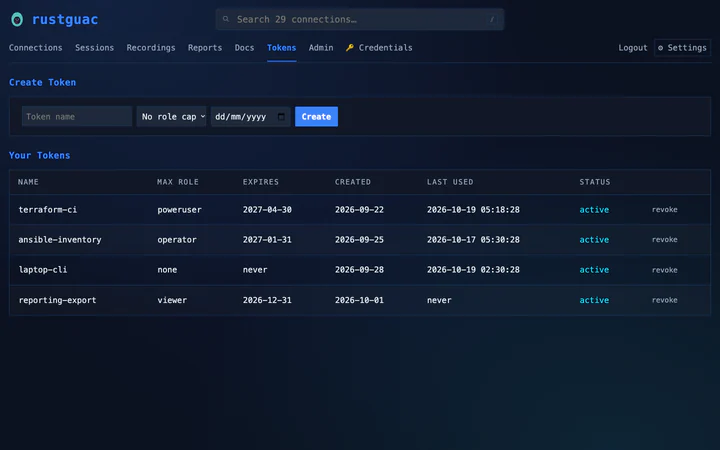
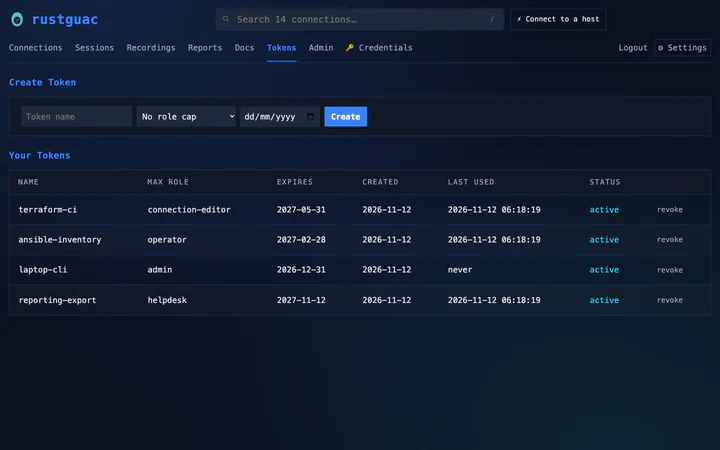
media: rustguac 1.14.1 screenshots for roles and access
New captures from sol1/rustguac:1.14.1, in both themes: admin (now
v1.14.1, with custom roles in the role picker and an access action per
user), tokens (caps at custom roles), and two new shots, roles (the
Admin Roles section with three custom roles) and user-access (one
user's effective access from two group mappings).

The roles shot replaces tokens as the Identity image on /features/ and
on the roles docs social card, and the home tour gains Roles and Access
tabs. SHOTS.md records which shots come from which release.

diff --git a/media/screenshots/SHOTS.md b/media/screenshots/SHOTS.md
@@ -1,6 +1,6 @@
 # Screenshots
 
-Fresh captures of rustguac v1.12.1 (the official `sol1/rustguac:1.12.1` image) running against OpenBao in dev mode, with default rustguac branding. All data is fictional: users are `@example.com`, and hosts use `*.example.com`, `*.example.net`, `*.example.internal`, 192.0.2.0/24, 198.51.100.0/24 and 203.0.113.0/24. SSH, web and recording content comes from real sessions to throwaway containers. The session history behind the reports page is a mix of those real sessions and inserted demo rows.
+Captures of rustguac v1.12.1 (the official `sol1/rustguac:1.12.1` image), except `admin`, `roles`, `user-access` and `tokens`, which are rustguac v1.14.1 (`sol1/rustguac:1.14.1`, with Vault through `token_file` and users signed in through a mock OIDC provider). Both ran against OpenBao in dev mode, with default rustguac branding. All data is fictional: users are `@example.com`, and hosts use `*.example.com`, `*.example.net`, `*.example.internal`, 192.0.2.0/24, 198.51.100.0/24 and 203.0.113.0/24. SSH, web and recording content comes from real sessions to throwaway containers. The session history behind the reports page is a mix of those real sessions and inserted demo rows.
 
 - `dark/` uses the **aurora** theme, which is the default. `light/` uses the **light** theme.
 - Desktop shots are 1440×900, captured at 90% zoom (a 1600×1000 CSS viewport). The reports page is captured at 80% zoom.
@@ -24,9 +24,11 @@ Fresh captures of rustguac v1.12.1 (the official `sol1/rustguac:1.12.1` image) r
 | recording-player | Replaying a recorded SSH session in the browser. | rustguac recording player replaying an SSH session running htop, with a Play button, an activity histogram along the seek bar and the position 0:52 of 1:41. |
 | reports | Session reports: totals and searchable session history. | rustguac Reports page with summary cards (203 total sessions, 59.3 total hours, 6 unique users, 4 active now) above a session-history table of users, entries, folders, types, hosts, start times, durations and statuses. |
 | reports-mobile | Reports at phone width. | rustguac Reports page at phone width, with the summary cards stacked above the session-history search. |
-| admin | The admin console: system status and users. | rustguac Admin page with status cards (version v1.12.1, 4 active sessions, 7 users, 203 history rows, 13 recordings, disk usage, Vault connected, features OIDC/Drive/TLS/Vault) and a users table with roles, OIDC groups, status and last login. |
+| admin | The admin console: system status and users. | rustguac Admin page with status cards (version v1.14.1, 0 active sessions, 7 users, 211 history rows, 0 recordings, disk usage, Vault connected, features OIDC/Drive/TLS/Vault) and a users table with emails, names, a role picker that includes custom roles such as Helpdesk, OIDC groups, status, last login and access, disable, force-logout and delete actions. |
 | admin-mobile | Admin status cards at phone width. | rustguac Admin page at phone width, with the system status cards stacked in a single column. |
-| tokens | Personal API tokens with role caps and expiry. | rustguac Tokens page with a create-token form and four tokens (terraform-ci, ansible-inventory, laptop-cli, reporting-export) showing max role, expiry, created and last-used dates. |
+| roles | Built-in and custom roles, made from permissions. | rustguac Admin Roles section listing the built-in admin, poweruser, operator and viewer roles and three custom roles (Connection editor, Contractor and Helpdesk) with their descriptions and permissions, edit and delete actions, and New role buttons with Connection editor and connect-only templates. |
+| user-access | Effective access for one user. | rustguac Admin page with the Effective access panel for priya@example.com: her own role operator is not in effect because group mappings apply, her groups helpdesk and windows-admins map to Helpdesk and operator, and each permission (connections.connect, credentials.self, reports.view, sessions.view_all, sessions.shadow, docs.view) lists the roles that grant it. |
+| tokens | Personal API tokens with role caps and expiry. | rustguac Tokens page with a create-token form and four tokens (terraform-ci, ansible-inventory, laptop-cli, reporting-export) capped at connection-editor, operator, admin and helpdesk, with expiry, created and last-used dates. |
 | themes | The same Connections page in four built-in themes. | Four-up view of the rustguac Connections page in the aurora, light, nord and jaguar themes. |
 | session-ssh | A live SSH session in the rustguac web client. | A browser-based SSH session through rustguac running htop on a demo host, with processes such as api-server, queue-worker and sshd, and the Clipboard, Files and Controls side tabs at the left edge. |
 | session-desktop | A live Web session: Chromium streamed into the browser. | A rustguac Web session showing a fictional Example Corp service status page with uptime, latency and per-service status, and the Clipboard and Controls side tabs at the left edge. |
